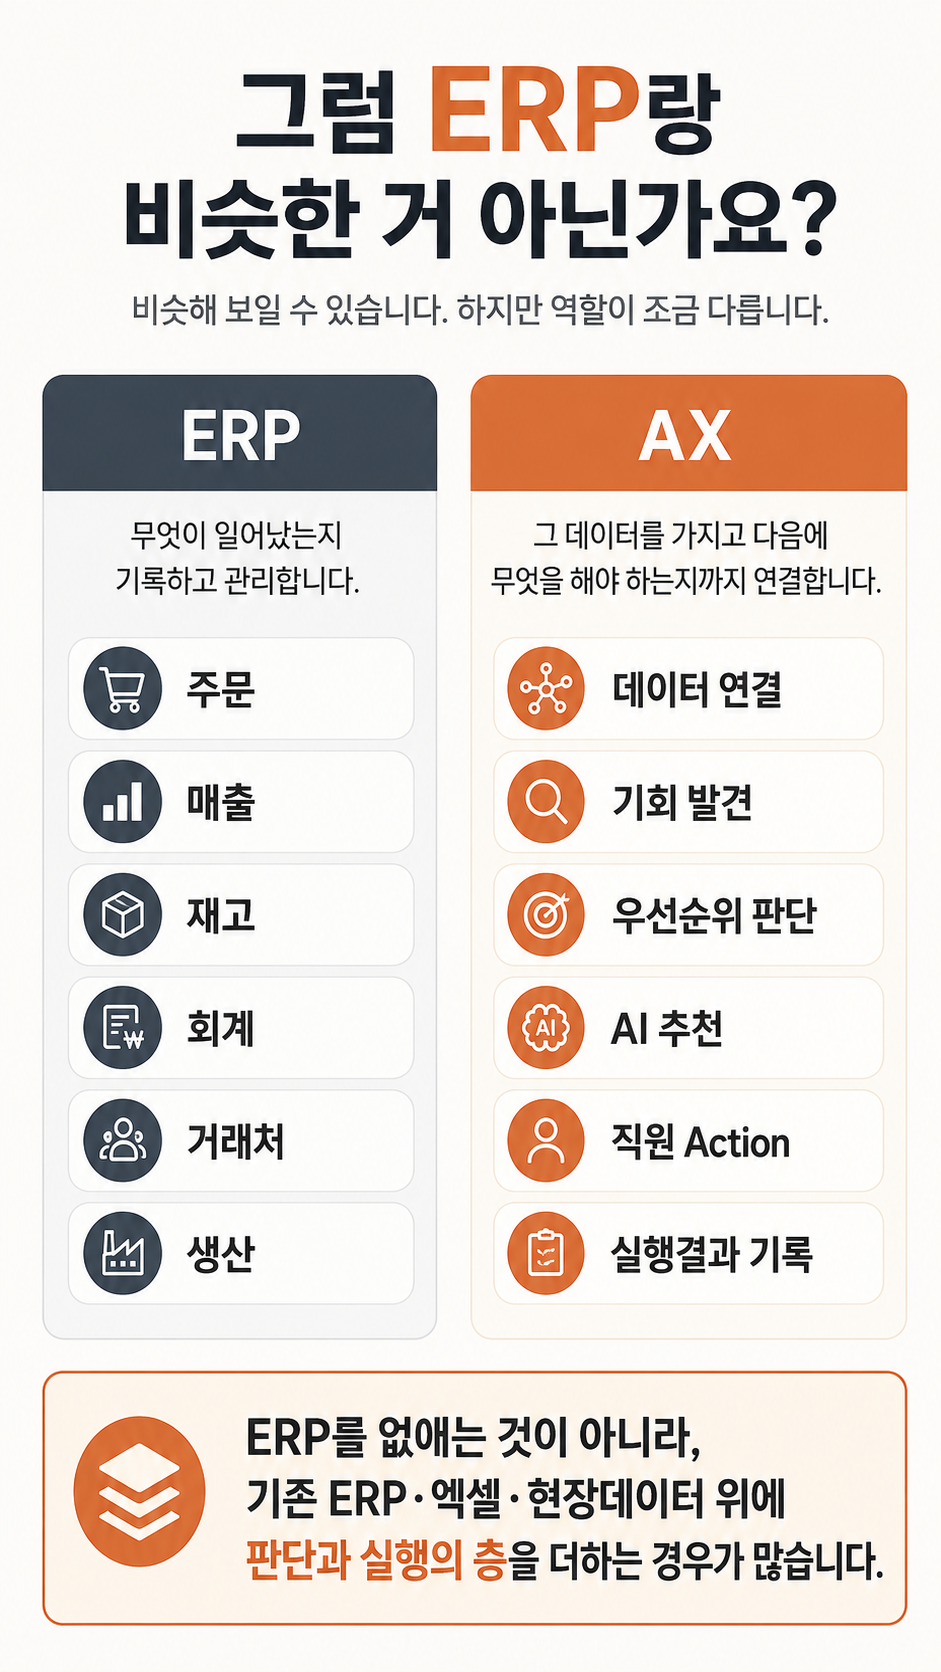
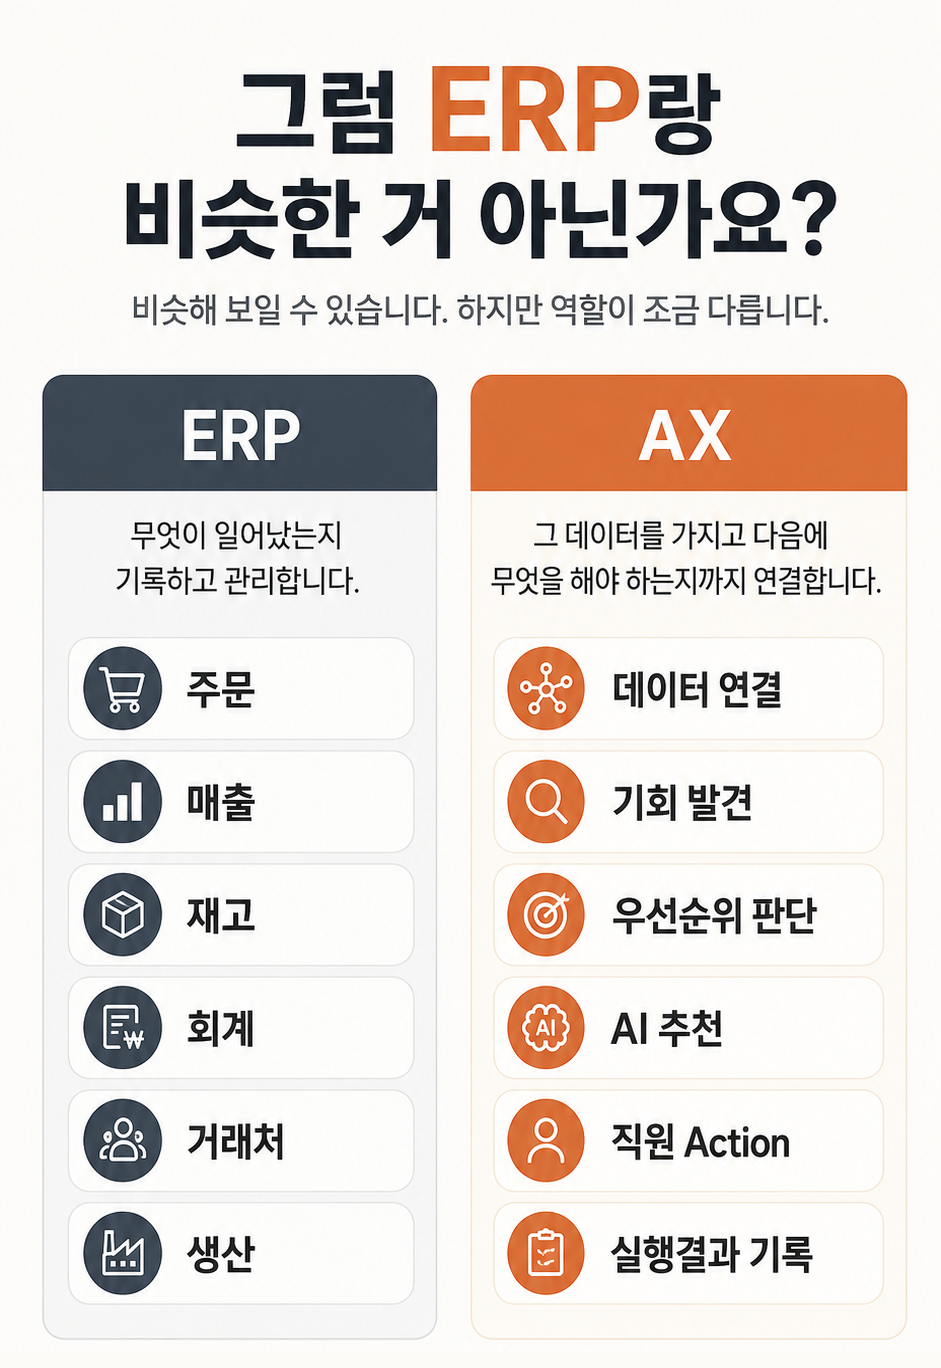
Refine business services story images

diff --git a/src/components/ax-showcase/axStoryHome.tsx b/src/components/ax-showcase/axStoryHome.tsx
@@ -8,6 +8,7 @@ type StoryImage = {
   src: string
   alt: string
   bg: string
+  gapClass?: string
 }
 
 type StorySectionProps = {
@@ -18,8 +19,8 @@ type StorySectionProps = {
 
 const STORY_ROOT = '/ax-home-story-clean'
 
-function storyImage(name: string, alt: string, bg = '#171B20'): StoryImage {
-  return { src: `${STORY_ROOT}/${name}`, alt, bg }
+function storyImage(name: string, alt: string, bg = '#171B20', gapClass?: string): StoryImage {
+  return { src: `${STORY_ROOT}/${name}`, alt, bg, gapClass }
 }
 
 function AxInfographicStack({ id, tone = 'dark', images }: StorySectionProps) {
@@ -30,7 +31,7 @@ function AxInfographicStack({ id, tone = 'dark', images }: StorySectionProps) {
   return (
     <section id={id} className={sectionClass}>
       {images.map((image) => (
-        <div key={image.src} className="pb-5 sm:pb-8" style={{ background: image.bg }}>
+        <div key={image.src} className={image.gapClass ?? 'pb-5 sm:pb-8'} style={{ background: image.bg }}>
           <div className="mx-auto max-w-[989px] px-0 sm:px-6">
             <div className="mx-auto max-w-[941px]">
               <img
@@ -69,7 +70,7 @@ const SECTION_04 = [
 ] as const
 
 const SECTION_05 = [
-  storyImage('section-05-erp-01.png', 'ERP와 AX의 역할 차이를 설명하는 비교 1', '#FCFBF8'),
+  storyImage('section-05-erp-01.png', 'ERP와 AX의 역할 차이를 설명하는 비교 1', '#FCFBF8', 'pb-2 sm:pb-3'),
   storyImage('section-05-erp-02.png', 'ERP 위에 판단과 실행의 층을 더하는 AX 설명 2', '#FBF9F6'),
 ] as const
 
